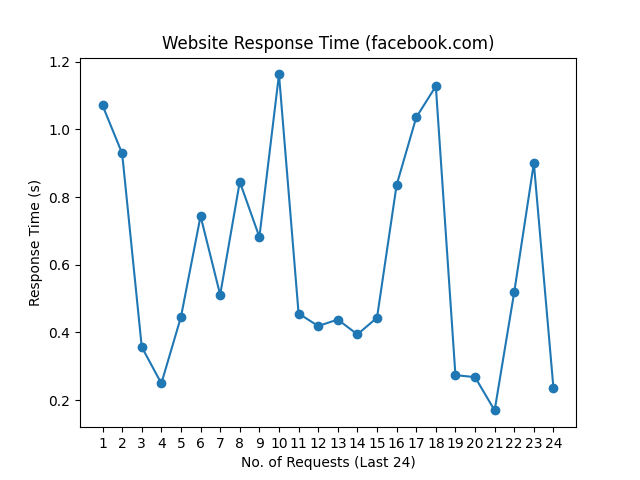
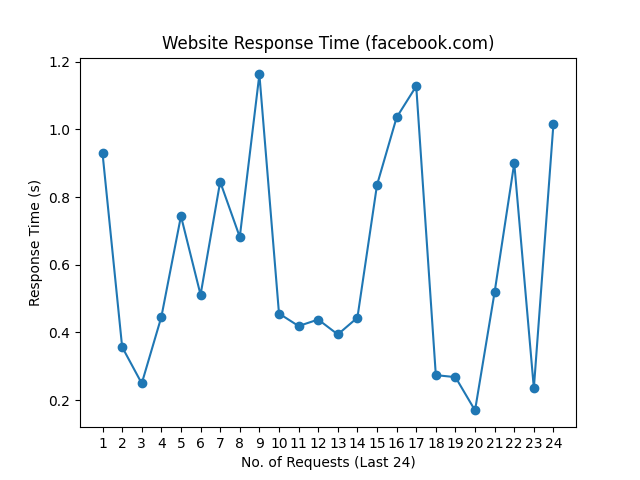
update README.md, history and graph

Changed region(s): [[0.1562, 0.125, 0.875, 0.875]]

diff --git a/README.md b/README.md
@@ -1,10 +1,10 @@
 # Web Monitoring
 
-Last Checked: 19/11/2024 08:21
+Last Checked: 20/11/2024 08:20
 
 | Website | Response Time (s) | Status | Avg Uptime (%) |
 |---------|-------------------|--------|----------------|
 | www.thiswebsiteisdown.net | 0 <br> <img src="graph/thiswebsiteisdown.net.png" alt="Graph" width="200" height="200">  | ❌ Down | 0.00 |
-| www.netflix.com | 0.745514 <br> <img src="graph/netflix.com.png" alt="Graph" width="200" height="200">  | ✅ Up | 100.00 |
-| www.google.com | 0.061088 <br> <img src="graph/google.com.png" alt="Graph" width="200" height="200">  | ✅ Up | 100.00 |
-| www.facebook.com | 0.234985 <br> <img src="graph/facebook.com.png" alt="Graph" width="200" height="200">  | ✅ Up | 100.00 |
+| www.netflix.com | 1.156877 <br> <img src="graph/netflix.com.png" alt="Graph" width="200" height="200">  | ✅ Up | 100.00 |
+| www.google.com | 0.116164 <br> <img src="graph/google.com.png" alt="Graph" width="200" height="200">  | ✅ Up | 100.00 |
+| www.facebook.com | 1.016798 <br> <img src="graph/facebook.com.png" alt="Graph" width="200" height="200">  | ✅ Up | 100.00 |
